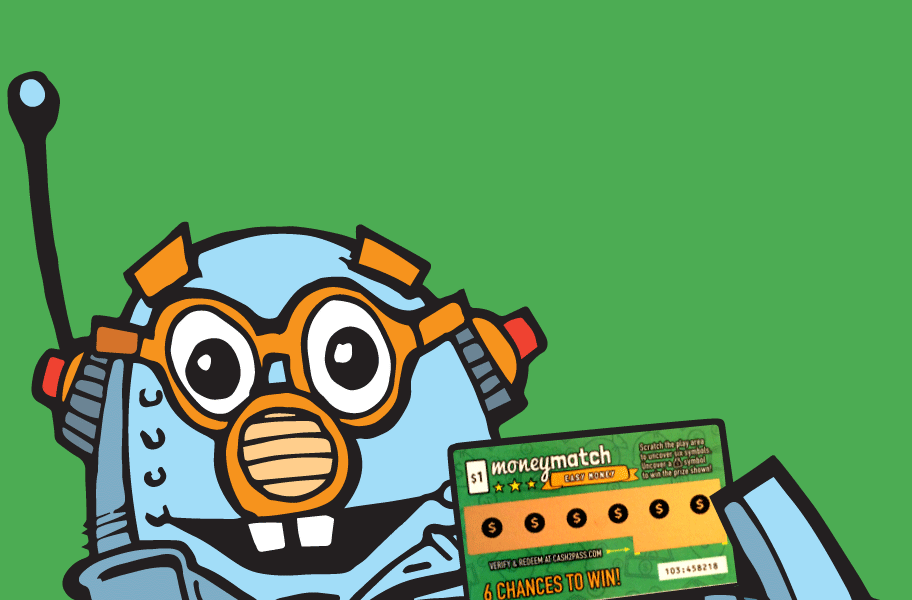
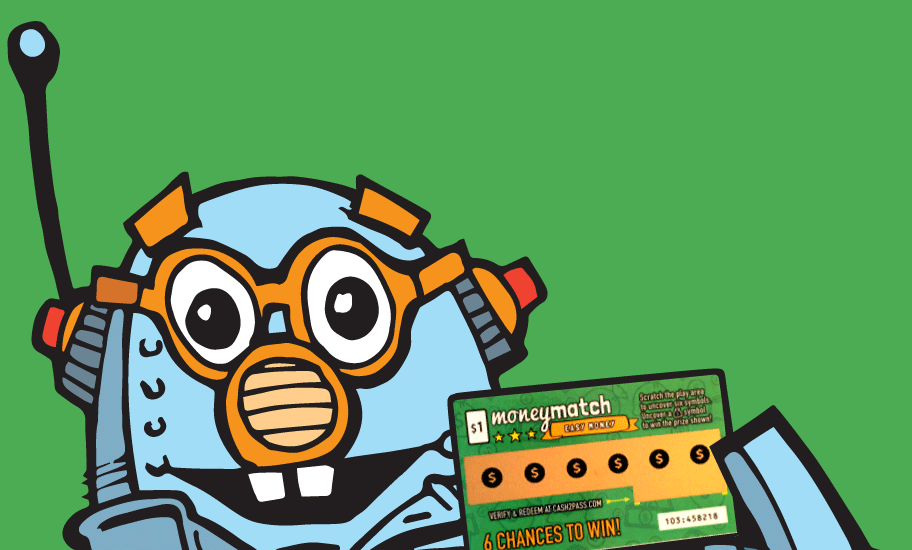
updating web page

diff --git a/css/grayscale.css b/css/grayscale.css
@@ -136,7 +136,7 @@ a:focus {
 
 @media(min-width:768px) {
     .navbar-custom {
-        padding: 20px 0;
+        padding: 0 0;
         border-bottom: 0;
         letter-spacing: 1px;
         background: 0 0;
@@ -411,13 +411,13 @@ body {
 }
 
 .intro_product {
-    padding-top: 30px;
+    padding-top: 10px;
     padding-bottom: 60%;
 }
 
 @media(min-width:768px) {
     .intro_product {
-        padding-top: 60px;
+        padding-top: 10px;
         padding-bottom: 100px;
     }
 }
